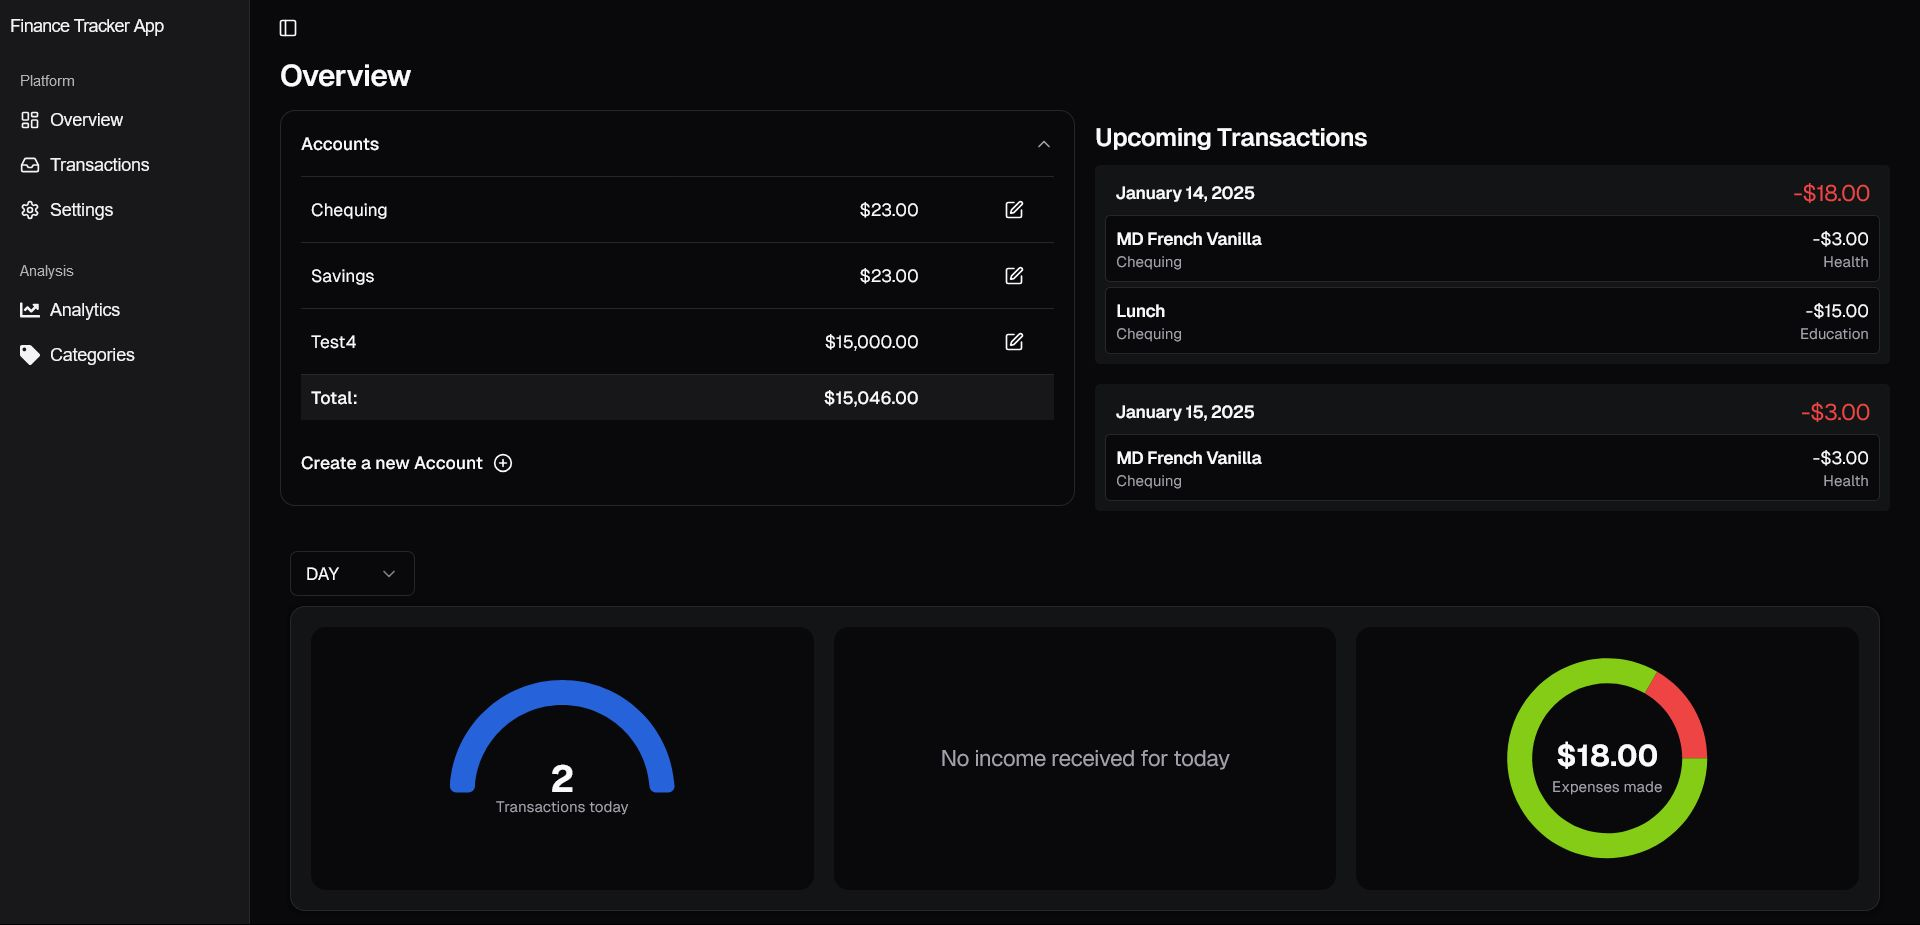
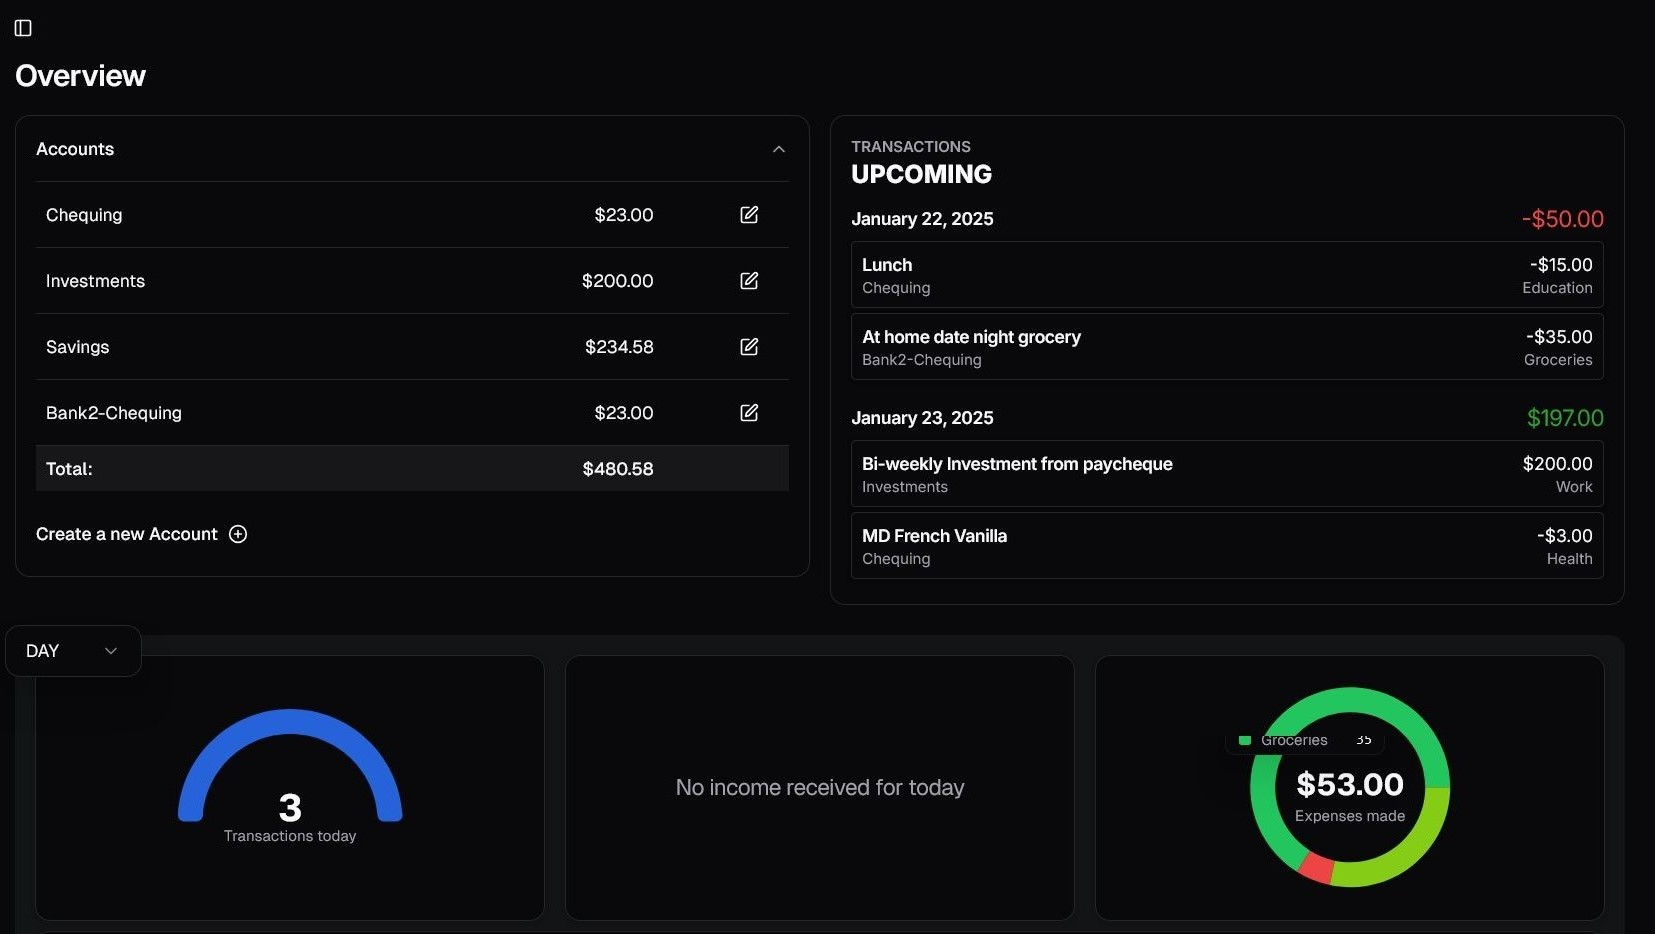
change: snapshot images

diff --git a/src/app/(application)/layout.tsx b/src/app/(application)/layout.tsx
@@ -21,6 +21,7 @@ const geistMono = localFont({
 });
 
 export const metadata: Metadata = {
+  metadataBase: new URL(siteConfig.url.base),
   title: {
     default: siteConfig.name,
     template: `%s | ${siteConfig.name}`
@@ -63,7 +64,7 @@ export default async function RootLayout({
                 <SidebarTrigger className="mx-4" />
               </div>
               {children}
-              <Footer />
+              <Footer className="w-full mx-auto my-5 md:my-10" />
             </SidebarInset>
           </SidebarProvider>
         </ThemeProvider>

diff --git a/src/components/landing/Snapshot.tsx b/src/components/landing/Snapshot.tsx
@@ -7,7 +7,7 @@ import ImageFrame from '@/components/common/ImageFrame';
 
 const images = [
   {
-    src: "/transact_overview1.jpg",
+    src: "/transact_overview.jpg",
     alt: "Transact Overview",
     width: "1000",
     height: "800",
@@ -29,6 +29,13 @@ const images = [
   },
   {
     src: "/transact_transaction_form.jpg",
+    alt: "Transact Landing",
+    width: "1000",
+    height: "800",
+    className: "",
+  },
+  {
+    src: "/transact_account_view.jpg",
     alt: "Transact Landing",
     width: "1000",
     height: "800",
